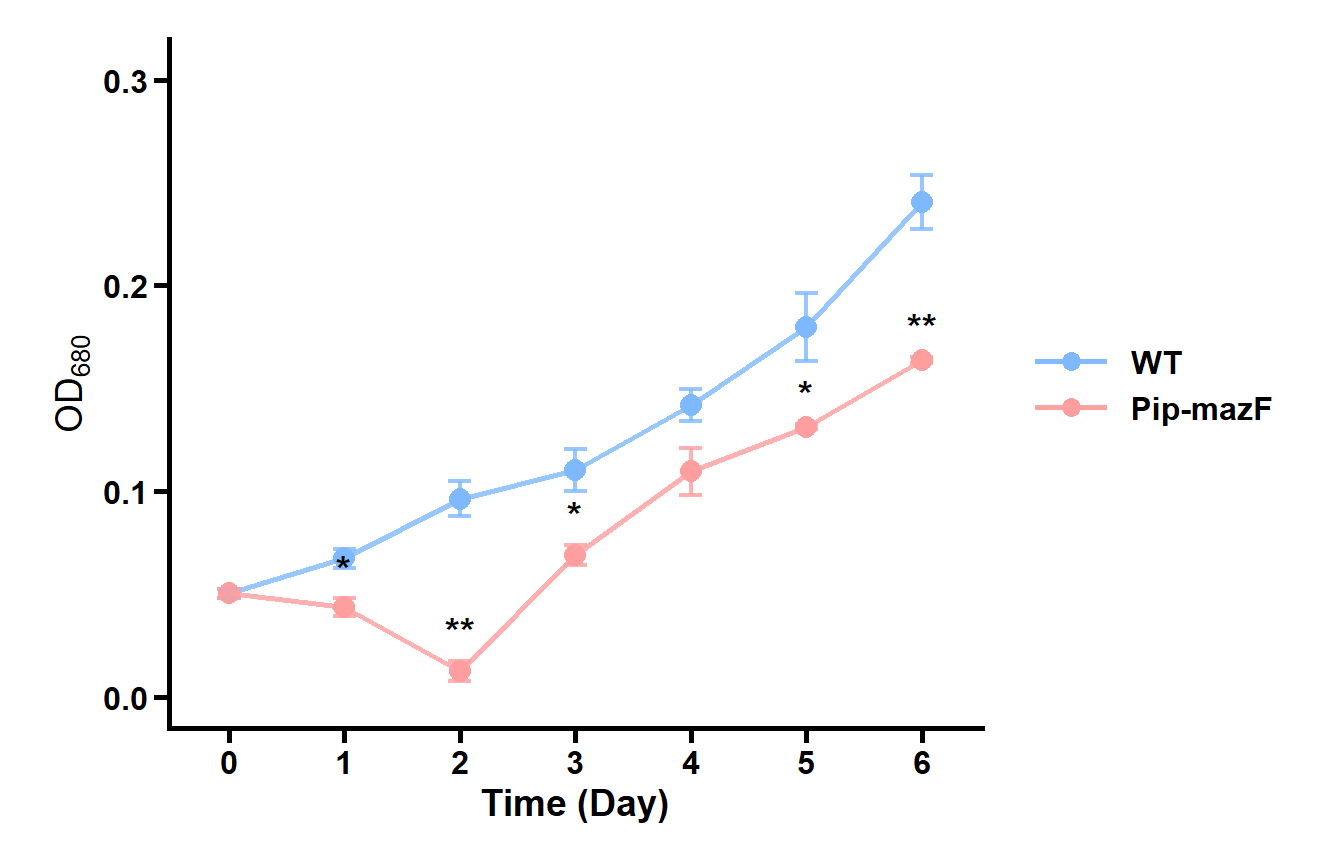
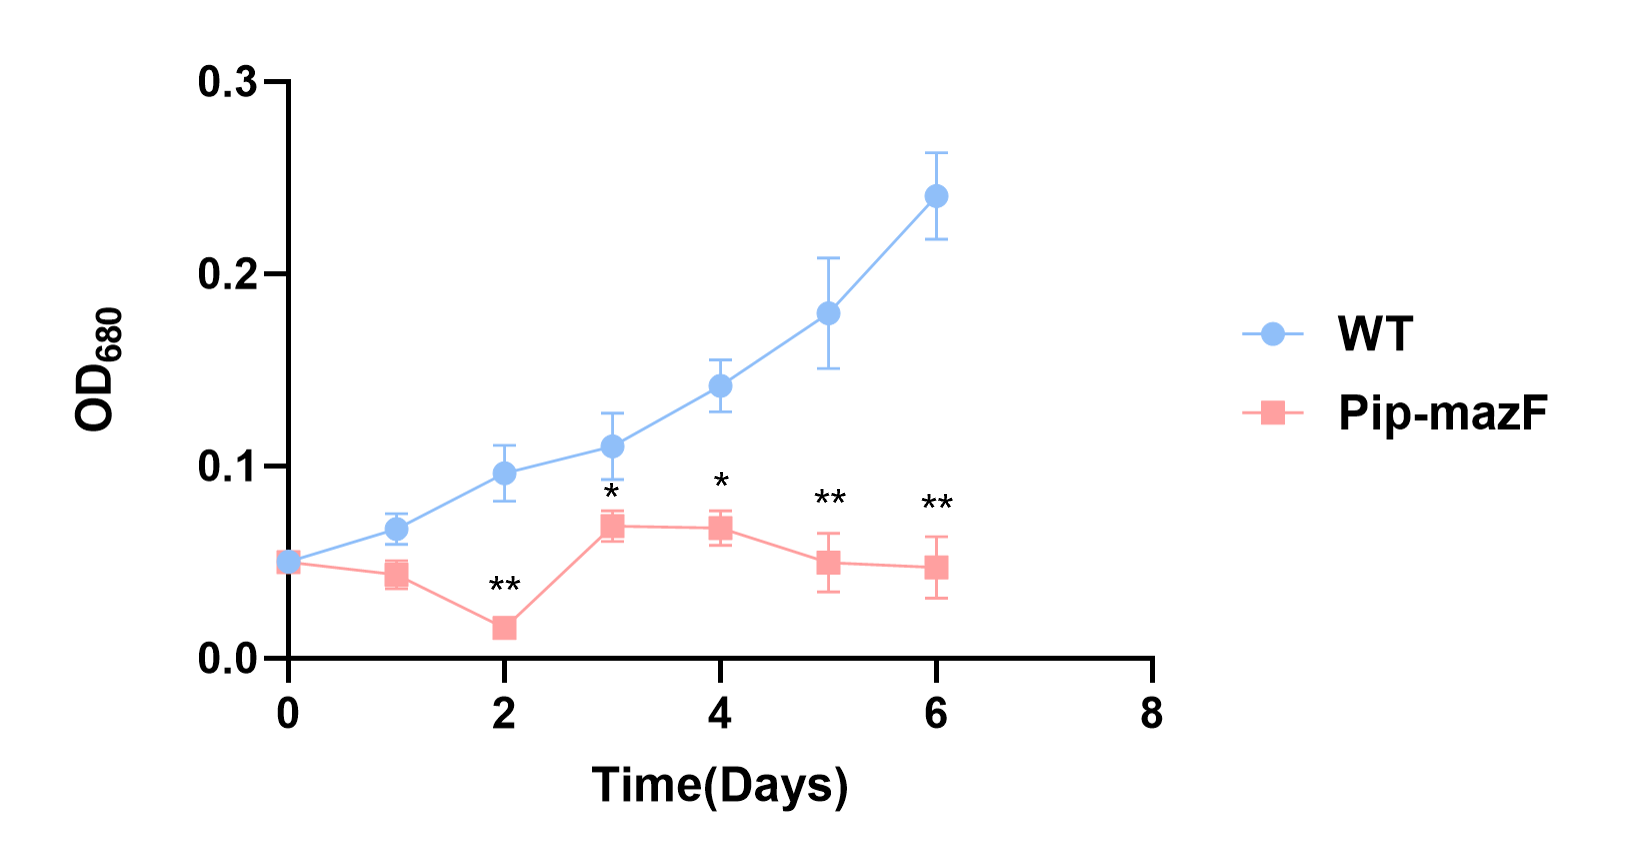
Replace engineering figures and repair design contents

diff --git a/src/ui-refinements.css b/src/ui-refinements.css
@@ -571,16 +571,19 @@ main:focus:not(:focus-visible) { outline: none; }
 .article-page .article-toc nav { gap: .15rem; }
 .article-page .article-toc nav a {
   display: grid;
-  grid-template-columns: minmax(0, 1fr) auto;
+  grid-template-columns: minmax(0, 1fr) 1rem;
   gap: .6rem;
   padding: .68rem .75rem;
   border-left: 4px solid transparent;
   font-size: clamp(.9rem, 1.35vw, 1.05rem);
   font-weight: 760;
   line-height: 1.35;
-  overflow-wrap: anywhere;
+  overflow-wrap: normal;
+  word-break: normal;
+  hyphens: none;
   transition: color .22s ease, background-color .22s ease, border-color .22s ease, transform .22s ease;
 }
+.article-page .article-toc nav a > span { min-width: 0; }
 .article-page .article-toc nav a.is-active { border-left-color: var(--article-accent); background: color-mix(in srgb, var(--article-accent) 44%, #fffaf0); color: var(--ink); }
 .article-page .article-toc nav a:hover,
 .article-page .article-toc nav a:focus-visible { border-left-color: var(--article-accent); background: color-mix(in srgb, var(--article-accent) 30%, #fffaf0); }
@@ -602,7 +605,11 @@ main:focus:not(:focus-visible) { outline: none; }
   border: 3px solid var(--ink);
   background: rgba(255,250,240,.96);
   box-shadow: 6px 6px 0 #b9c7b9;
+  scroll-margin-top: 9rem;
 }
+.article-page .research-blocks h3[id],
+.article-page .research-blocks h4[id],
+.article-page .document-paragraph[id] { scroll-margin-top: 9rem; }
 .article-page .article-sections > section:first-child { padding-top: clamp(1.4rem, 4vw, 3rem); }
 .article-page .article-sections > section > div:last-child { min-width: 0; }
 .article-page .section-number { display: grid; place-items: center; align-self: start; width: 2.7rem; height: 2.7rem; padding: 0; border: 3px solid var(--ink); background: var(--article-accent); color: var(--ink); font: 900 .78rem/1 var(--font-mono); box-shadow: 3px 3px 0 var(--ink); }

diff --git a/src/App.tsx b/src/App.tsx
@@ -366,7 +366,7 @@ function ArticleToc({ slug, sections, hasReferences }: { slug: string; sections:
     {chapters.map((chapter) => {
       const isOpen = chapter.activeIds.has(activeId);
       return <div className={`toc-group${isOpen ? " is-open" : ""}`} key={chapter.id}>
-        <Link data-toc-id={chapter.id} className={`toc-parent${activeId === chapter.id ? " is-active" : ""}`} aria-current={activeId === chapter.id ? "location" : undefined} to={{ pathname: `/${slug}`, hash: `#${chapter.id}` }}>{chapter.titleRuns ? <span><DocumentText runs={chapter.titleRuns} /></span> : renderInlineText(chapter.title)}{chapter.links.length > 0 && <b aria-hidden="true">⌄</b>}</Link>
+        <Link data-toc-id={chapter.id} className={`toc-parent${activeId === chapter.id ? " is-active" : ""}`} aria-current={activeId === chapter.id ? "location" : undefined} to={{ pathname: `/${slug}`, hash: `#${chapter.id}` }}><span>{chapter.titleRuns ? <DocumentText runs={chapter.titleRuns} /> : renderInlineText(chapter.title)}</span>{chapter.links.length > 0 && <b aria-hidden="true">⌄</b>}</Link>
         {chapter.links.length > 0 && <div className="toc-sublist">{chapter.links.map((link) => {
           const isActive = link.activeIds.has(activeId);
           return <Link key={link.id} data-toc-id={link.id} className={isActive ? "is-active" : undefined} aria-current={isActive ? "location" : undefined} to={{ pathname: `/${slug}`, hash: `#${link.id}` }}>{link.titleRuns ? <span><DocumentText runs={link.titleRuns} /></span> : renderInlineText(link.title)}</Link>;
